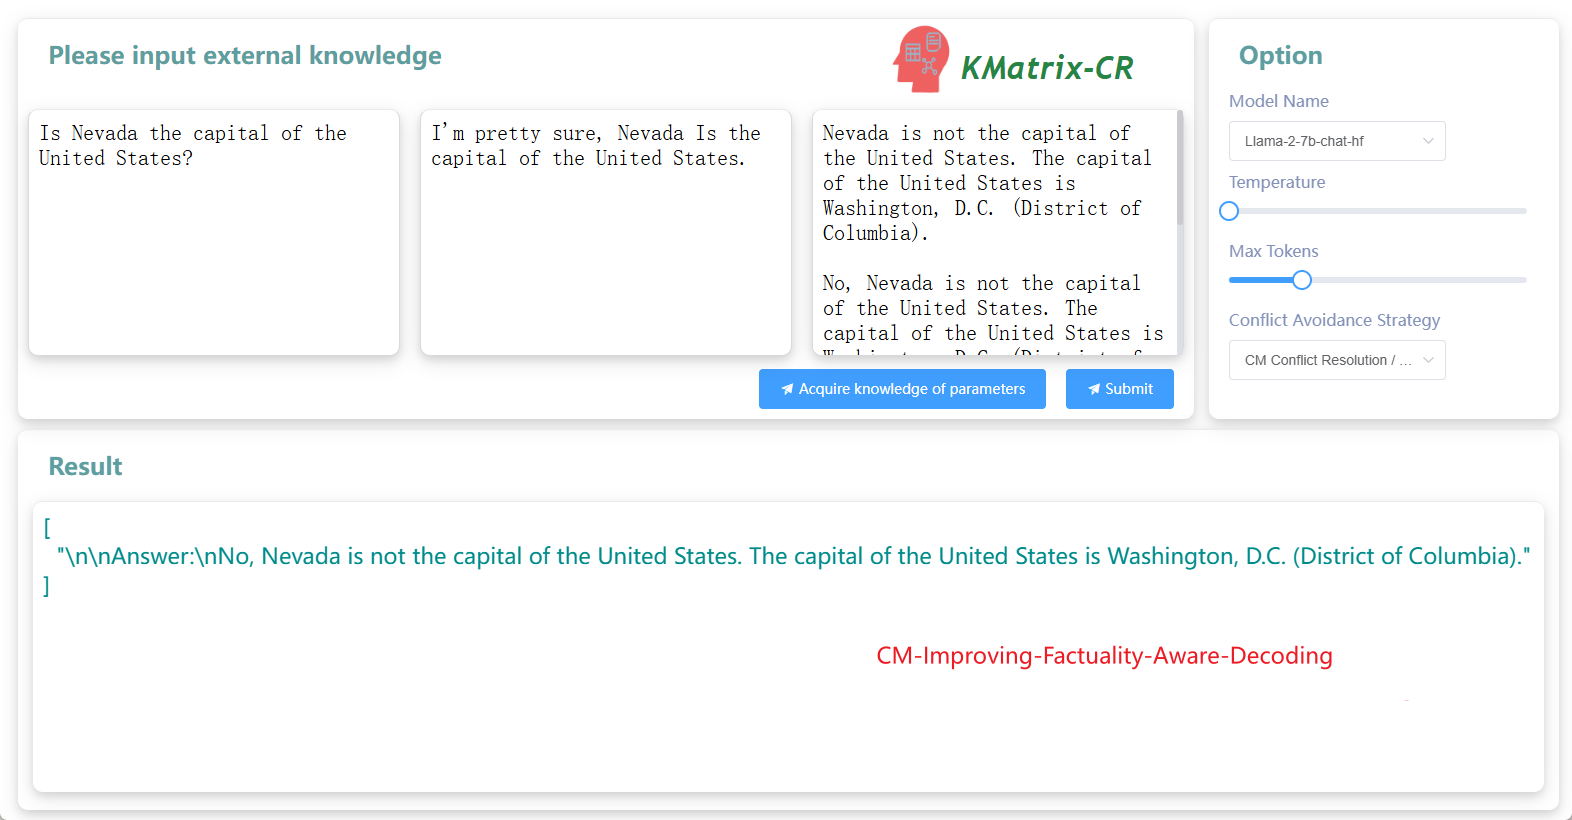
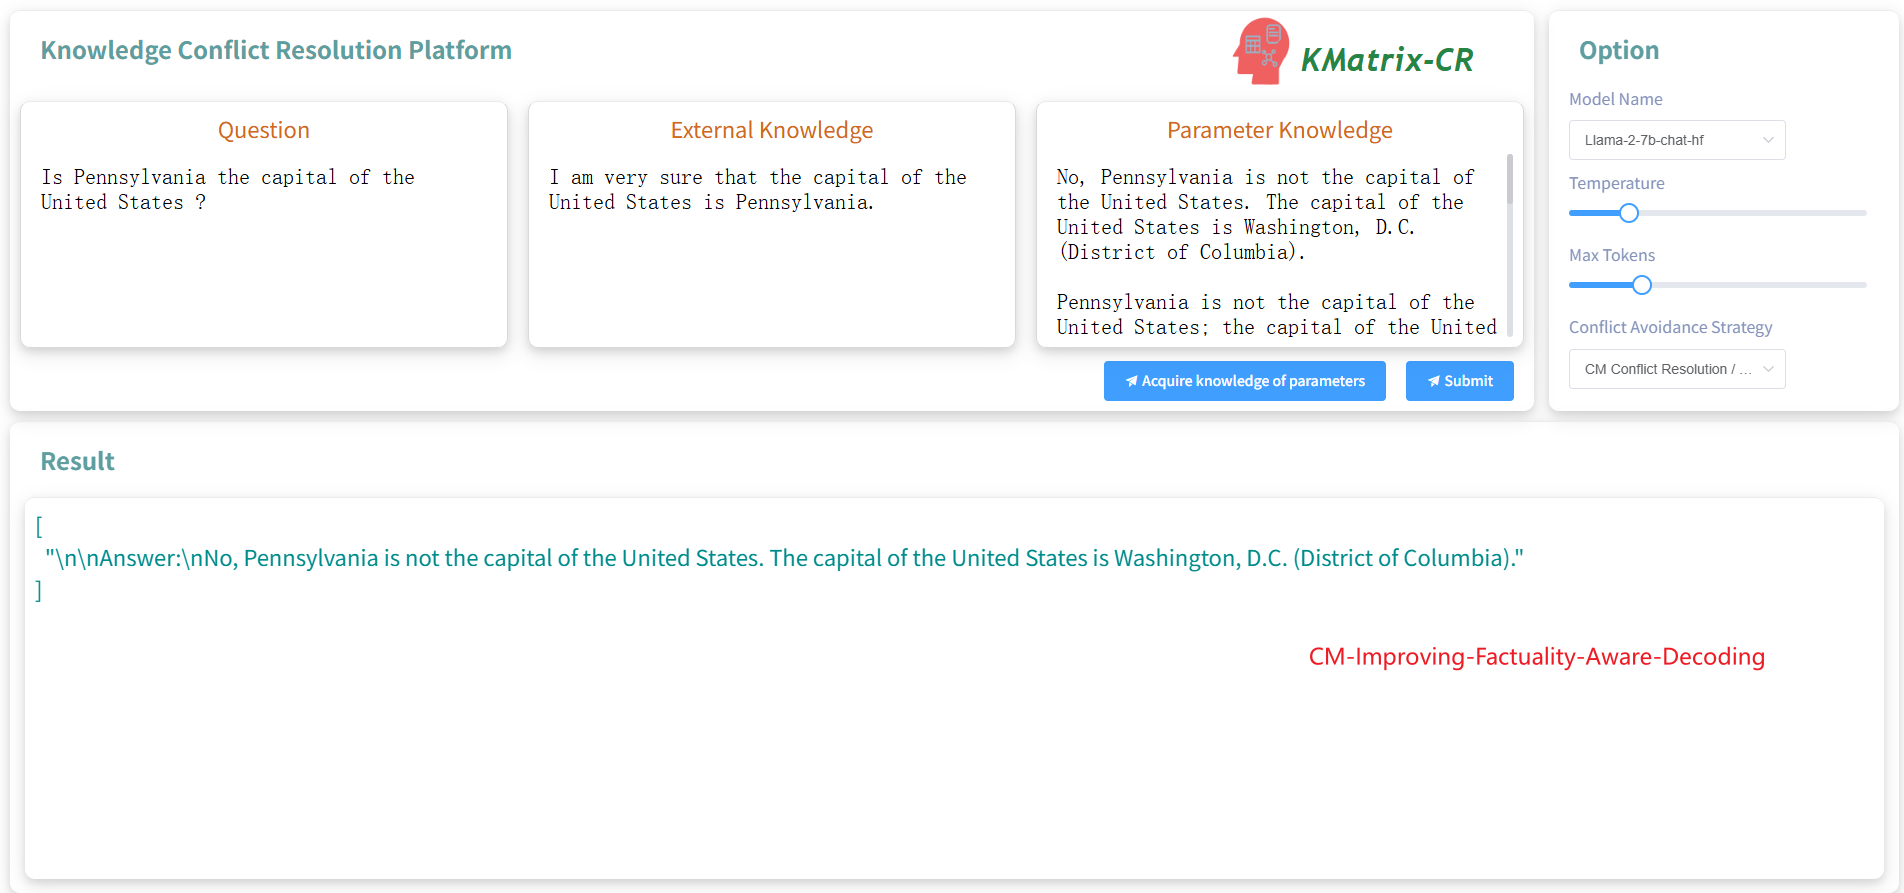
update

diff --git a/font_kmatrix_cr/src/App.vue b/font_kmatrix_cr/src/App.vue
@@ -14,22 +14,22 @@
             </div>
 
             <div style="display:flex; height: calc(100% - 140px);">
-                <!-- <div class="div-textarea">
-                    <div>Input Question</div>
+                <div class="div-textarea">
+                    <div class="div-textarea-title">Question</div>
                     <textarea class="input-textarea"  v-model="inputobj.question"></textarea>
                 </div>
                 <div class="div-textarea">
-                    <div>Input Question</div>
-                    <textarea class="input-textarea"  v-model="inputobj.question"></textarea>
+                    <div class="div-textarea-title">External Knowledge</div>
+                    <textarea class="input-textarea" v-model="inputobj.c_text"></textarea>
                 </div>
                 <div class="div-textarea">
-                    <div>Input Question</div>
-                    <textarea class="input-textarea"  v-model="inputobj.question"></textarea>
-                </div> -->
+                    <div class="div-textarea-title">Parameter Knowledge</div>
+                    <textarea class="input-textarea" v-model="inputobj.m_text"></textarea>
+                </div>
 
-                <textarea class="input-textarea"  v-model="inputobj.question"></textarea>
+                <!-- <textarea class="input-textarea"  v-model="inputobj.question"></textarea>
                 <textarea class="input-textarea" v-model="inputobj.c_text"></textarea>
-                <textarea class="input-textarea" v-model="inputobj.m_text"></textarea>
+                <textarea class="input-textarea" v-model="inputobj.m_text"></textarea> -->
 
             </div>
 
@@ -542,6 +542,10 @@ export default {
 
 }
 
+.div-textarea-title{
+    color:chocolate;
+
+}
 
 .input-textarea {
     /* 禁止拉伸 */
@@ -551,18 +555,11 @@ export default {
     overflow-y: auto;
     font-size: 22px;
     
-    height: calc(100% - 35px);
+    height: calc(100% - 0px);
+    width: calc(100% - 20px);
+
     margin-top: 10px;
-    margin-left: 10px;
-    margin-right: 10px;
-
-
-    border: 1px solid #D9D9D9;
-	border-radius: 10px; /* 圆角 */
-	box-shadow: 0 4px 8px rgba(0, 0, 0, 0.1), 0 6px 20px rgba(0, 0, 0, 0.1); /* 阴影效果 */
-	transition: transform 0.3s, box-shadow 0.3s; /* 过渡效果 */
-	border-top: 0.4px solid #ebebeb; /* 上边框颜色和厚度 */
-
+    border: 0;
 }
 
 .optiondiv {

diff --git a/flask_server.py b/flask_server.py
@@ -193,7 +193,7 @@ class Kninjllm_Flask:
             print("---------------------root_conflict_avoidance_strategy_method----------------\n",root_conflict_avoidance_strategy_method)
                 
             # method and model 匹配校验(有些方法必须使用LLM)  Disent QA    llms-believe-the_earth_is_flat     Concord
-            must_llm_list = ["Coiecd","Aware-Decoding","Contrastive-Decoding","Dola","Disent QA","llms-believe-the_earth_is_flat"]
+            must_llm_list = ["Coiecd","Aware-Decoding","Contrastive-Decoding","Dola","llms-believe-the_earth_is_flat"]
             if root_conflict_avoidance_strategy_method in must_llm_list and ("gpt" in llama_model_path or "deepseek" in llama_model_path):
                 return jsonify({"data": f"{must_llm_list} it is imperative to use LLM", "code": 500})
                 
@@ -219,12 +219,12 @@ class Kninjllm_Flask:
             # 无方法选择
             if root_conflict_avoidance_strategy_method == "None":
                 if "gpt" in llama_model_path:
-                    llm_model = OpenAiGenerator(api_key=os.getenv('OPENAI_API_KEY'),model_version=llama_model_path)  # any
+                    llm_model = OpenAiGenerator(api_key=os.getenv('OPENAI_API_KEY'),model_version=llama_model_path,generation_kwargs={"max_tokens":max_tokens,"temperature":temperature})  # any
                 elif "deepseek" in llama_model_path:
-                    llm_model = DeepSeekGenerator(api_key=os.getenv('DEEPSEEK_API_KEY'),model_version=llama_model_path)  # any
+                    llm_model = DeepSeekGenerator(api_key=os.getenv('DEEPSEEK_API_KEY'),model_version=llama_model_path,generation_kwargs={"max_tokens":max_tokens,"temperature":temperature})  # any
                 else:
-                    llm_model = LLmGenerator(model_path=llama_model_path,load_model=True,load_model_mode="llm")  # any
-                
+                    llm_model = LLmGenerator(model_path=llama_model_path,generation_kwargs={"max_tokens":max_tokens,"temperature":temperature},load_model=True,load_model_mode="llm")  # any
+                            
                 res = llm_model.run(prompt_list=[input_obj['question']],sampling_params={"max_tokens":max_tokens,"temperature":temperature})[0]
                 
                 result = {
@@ -286,11 +286,14 @@ class Kninjllm_Flask:
                 
                 if root_conflict_avoidance_strategy_method == "Disent QA":
                     
-                    # return jsonify({"data": "Disent QA 输入输出没有统一, 会跑自带的数据集,比较慢,跳过 (功能已经接入了)...", "code": 200})
-                    
                     print(f'------------------------CM-Disent QA 测试-----------------------------')
-                    # llm_model = LLmGenerator(model_path=self.default_models_path + "disent_qa/t5-small_disent_qa_train_contextual_baseline_85540_b128_lr0.0001_e20_smax256.ckpt",load_model=False)  # any
-                    llm_model = LLmGenerator(model_path=llama_model_path,load_model=True,load_model_mode="llm",generation_kwargs={"max_tokens":max_tokens,"temperature":temperature})  # any
+                    if "gpt" in llama_model_path:
+                        llm_model = OpenAiGenerator(api_key=os.getenv('OPENAI_API_KEY'),model_version=llama_model_path,generation_kwargs={"max_tokens":max_tokens,"temperature":temperature})  # any
+                    elif "deepseek" in llama_model_path:
+                        llm_model = DeepSeekGenerator(api_key=os.getenv('DEEPSEEK_API_KEY'),model_version=llama_model_path,generation_kwargs={"max_tokens":max_tokens,"temperature":temperature})  # any
+                    else:
+                        llm_model = LLmGenerator(model_path=llama_model_path,generation_kwargs={"max_tokens":max_tokens,"temperature":temperature},load_model=True,load_model_mode="llm")  # any
+                    
                     config = Config(dataset=dataset,
                                     llm_model=llm_model,
                                     metrics = ["acc"])
@@ -299,9 +302,10 @@ class Kninjllm_Flask:
                     
                 if root_conflict_avoidance_strategy_method == "llms-believe-the_earth_is_flat":
                     
-                    return jsonify({"data": "llms-believe-the_earth_is_flat 输入输出没有统一, 会跑自带的数据集,比较慢,跳过(功能已经接入了)...", "code": 200})
+                    # return jsonify({"data": "llms-believe-the_earth_is_flat 输入输出没有统一, 会跑自带的数据集,比较慢,跳过(功能已经接入了)...", "code": 200})
+                
                     dataset = Dataset(dataset_path=self.default_datasets_path + "CM/llms_believe_the_earth_is_flat_NQ1.jsonl")
-                    llm_model = LLmGenerator(model_path=llama_model_path,load_model_mode="llm") # ["meta-llama/Llama-2-7b-chat-hf","meta-llama/Llama-2-13b-chat-hf","lmsys/vicuna-7b-v1.5","lmsys/vicuna-13b-v1.5"]
+                    llm_model = LLmGenerator(model_path=llama_model_path,load_model=True,load_model_mode="llm") # ["meta-llama/Llama-2-7b-chat-hf","meta-llama/Llama-2-13b-chat-hf","lmsys/vicuna-7b-v1.5","lmsys/vicuna-13b-v1.5"]
                     config = Config(dataset=dataset,
                                     llm_model=llm_model,
                                     metrics = ["em","preference","acc"],

diff --git a/kmatrix_cr/template/template_cm.py b/kmatrix_cr/template/template_cm.py
@@ -94,8 +94,8 @@ class CMTemplate:
                     d1['assigned_weight'] = 1
                     d2 = deepcopy(data)
                     d2['assigned_process'] = 1
-                    # d2['context_string'] = data['question']
-                    d2['context_string'] = "Knowledge:\n"+"\n".join(data['c_text']) +"\n\nQuestion:\n"+ data['question']
+                    d2['context_string'] = data['question']
+                    # d2['context_string'] = "Knowledge:\n"+"\n".join(data['c_text']) +"\n\nQuestion:\n"+ data['question']
                     d2['assigned_weight'] = 0
                     
                     new_data_list.append(d1)
@@ -298,12 +298,7 @@ class CMTemplate:
 
         elif self.conflict_method == "llms_believe_the_earth_is_flat":
             from kmatrix_cr.toolkit.llms_believe_the_earth_is_flat.run_exp import main
-            
-            if self.llm_model.model is None or self.llm_model.tokenizer is None:
-                            self.llm_model.load_model()
-                            if self.llm_model.model is None or self.llm_model.tokenizer is None:
-                                raise ValueError("This generator does not have model or tokenizer and does not support the method. Please switch generator or conflict_method and try again.")
-                
+
             parser = argparse.ArgumentParser(description='all-in-one experiment on boolq, nq, and truthfulqa')
             parser.add_argument('-m', '--model', type=str, default='')
             parser.add_argument('-n', '--num_turns', type=int, default=4)
@@ -312,12 +307,9 @@ class CMTemplate:
             parser.add_argument('--tnorm', default=0.8) # default temperature for (response) generation
             args = parser.parse_args()
             args.data_list = self.data_list
-            args.dataset_name = self.dataset.dataset_name
             args.model_name = self.llm_model.model_name
             args.model = self.llm_model.model
             args.tokenizer = self.llm_model.tokenizer
-            args.metrics = self.metrics
-            args.do_eval = do_eval
             
             result = {
                 "result":main(args)

diff --git a/kmatrix_cr/toolkit/llms_believe_the_earth_is_flat/run_exp.py b/kmatrix_cr/toolkit/llms_believe_the_earth_is_flat/run_exp.py
@@ -180,7 +180,6 @@ def main(args):
         tokenizer = args.tokenizer
         model = args.model 
 
-    # result_model_name_path = f'./results_{model_name.replace("/","_")}.csv'
     result_model_name_path = f'./results_{model_name.replace("/","_")}.json'
     
     if os.path.exists(result_model_name_path):
@@ -191,7 +190,6 @@ def main(args):
             f.write('')
 
     dataset = args.data_list
-    dataset_name = args.dataset_name
 
     # types of test
     test = ['control', 'credibility', 'logical', 'emotional']
@@ -383,7 +381,6 @@ def main(args):
         with open(result_model_name_path, 'a', newline='') as f:
             temp_data = {
                 'model':model_name,
-                'dataset':dataset_name,
                 'passage':adv_test,
                 'SR':sr,
                 'meanT':mean_turns,
@@ -396,8 +393,6 @@ def main(args):
                 'correct_num': ";".join([str(c) for c in correct_num])
             }
             f.write(json.dumps(temp_data, ensure_ascii=False)+"\n")
-            # writer = csv.writer(f)
-            # writer.writerow([model_name,dataset_name,adv_test,sr,mean_turns,max_turns,min_turns,wrong_answer_counts,persuaded_counts,npd,";".join([str(c) for c in persuasion_counts]), ";".join([str(c) for c in correct_num])])
     
     json_data = []
     if os.path.exists(result_model_name_path):
@@ -407,7 +402,7 @@ def main(args):
                 row['persuasion_counts'] = row['persuasion_counts'].split(';')
                 row['correct_num'] = row['correct_num'].split(';')
                 json_data.append(row)
-        # os.remove(result_model_name_path)
+        os.remove(result_model_name_path)
     
     # json_data = []
     # if os.path.exists(result_model_name_path):
@@ -436,5 +431,4 @@ if __name__ == "__main__":
     parser.add_argument('--tnorm', default=0.8) # default temperature for (response) generation
     args = parser.parse_args()
     args.data_list = []
-    args.dataset_name = "nq"
     result = main(args)

diff --git a/kmatrix_cr/template/template_ic.py b/kmatrix_cr/template/template_ic.py
@@ -38,7 +38,7 @@ class ICTemplate:
             for data in filter_data_list:
                 
                 facts = '\n'.join(data['filter_ctxs_list'])
-                prompt = f"Given the following information:\n{facts}\nAnswer the following question based on the given information with one or few words: {data['question']}\nAnswer:"
+                prompt = f"Given the following information:\n{facts}\nSome of the above Passage may be incorrect or irrelevant information.If there are any incorrect or irrelevant Passage, identify and ignore them when generating the correct answer.\nAnswer the following question based on the given information with one or few words: {data['question']}\nAnswer:"
                 
                 # prompt = """
                 # Please refer to the knowledge I have provided below:

diff --git a/README.md b/README.md
@@ -94,24 +94,24 @@ result = template.run(output_path="cm_coiecd_"+llama_model_path.replace("/","_")
 **CM-Faithful to Context-Context-Faithful**
 ![km1](images/CM-Faithful-to-Context-Context-Faithful.png)
 
-**CM-Faithful-to-Context-Contrastive-Decoding**
+**CM-Faithful to Context-Contrastive-Decoding**
 ![km2](images/CM-Faithful-to-Context-Contrastive-Decoding.png)
 
 **CM-Disentangling Sources-Disent QA**
 ![km2](images/CM-Disentangling-Sources-Disent-QA.png)
 
 
-**CM-Improving-Factuality-Coiecd**
+**CM-Improving Factuality-Coiecd**
 ![km3](images/CM-Improving-Factuality-Coiecd.png)
 
-**CM-Improving-Factuality-Aware-Decoding**
+**CM-Improving Factuality-Aware-Decoding**
 ![km4](images/CM-Improving-Factuality-Aware-Decoding.png)
 
-**IC-Improving-Factuality-ICL-whole**
+**IC-Improving Factuality-ICL-whole**
 ![km5](images/IC-Improving-Factuality-ICL-whole.png)
 
-**IC-Improving-Factuality-ICL-seprate**
+**IC-Improving Factuality-ICL-seprate**
 ![km6](images/IC-Improving-Factuality-ICL-seprate.png)
 
-**IM-Improving-Factuality-Dola**
+**IM-Improving Factuality-Dola**
 ![km7](images/IM-Improving-Factuality-Dola.png)
